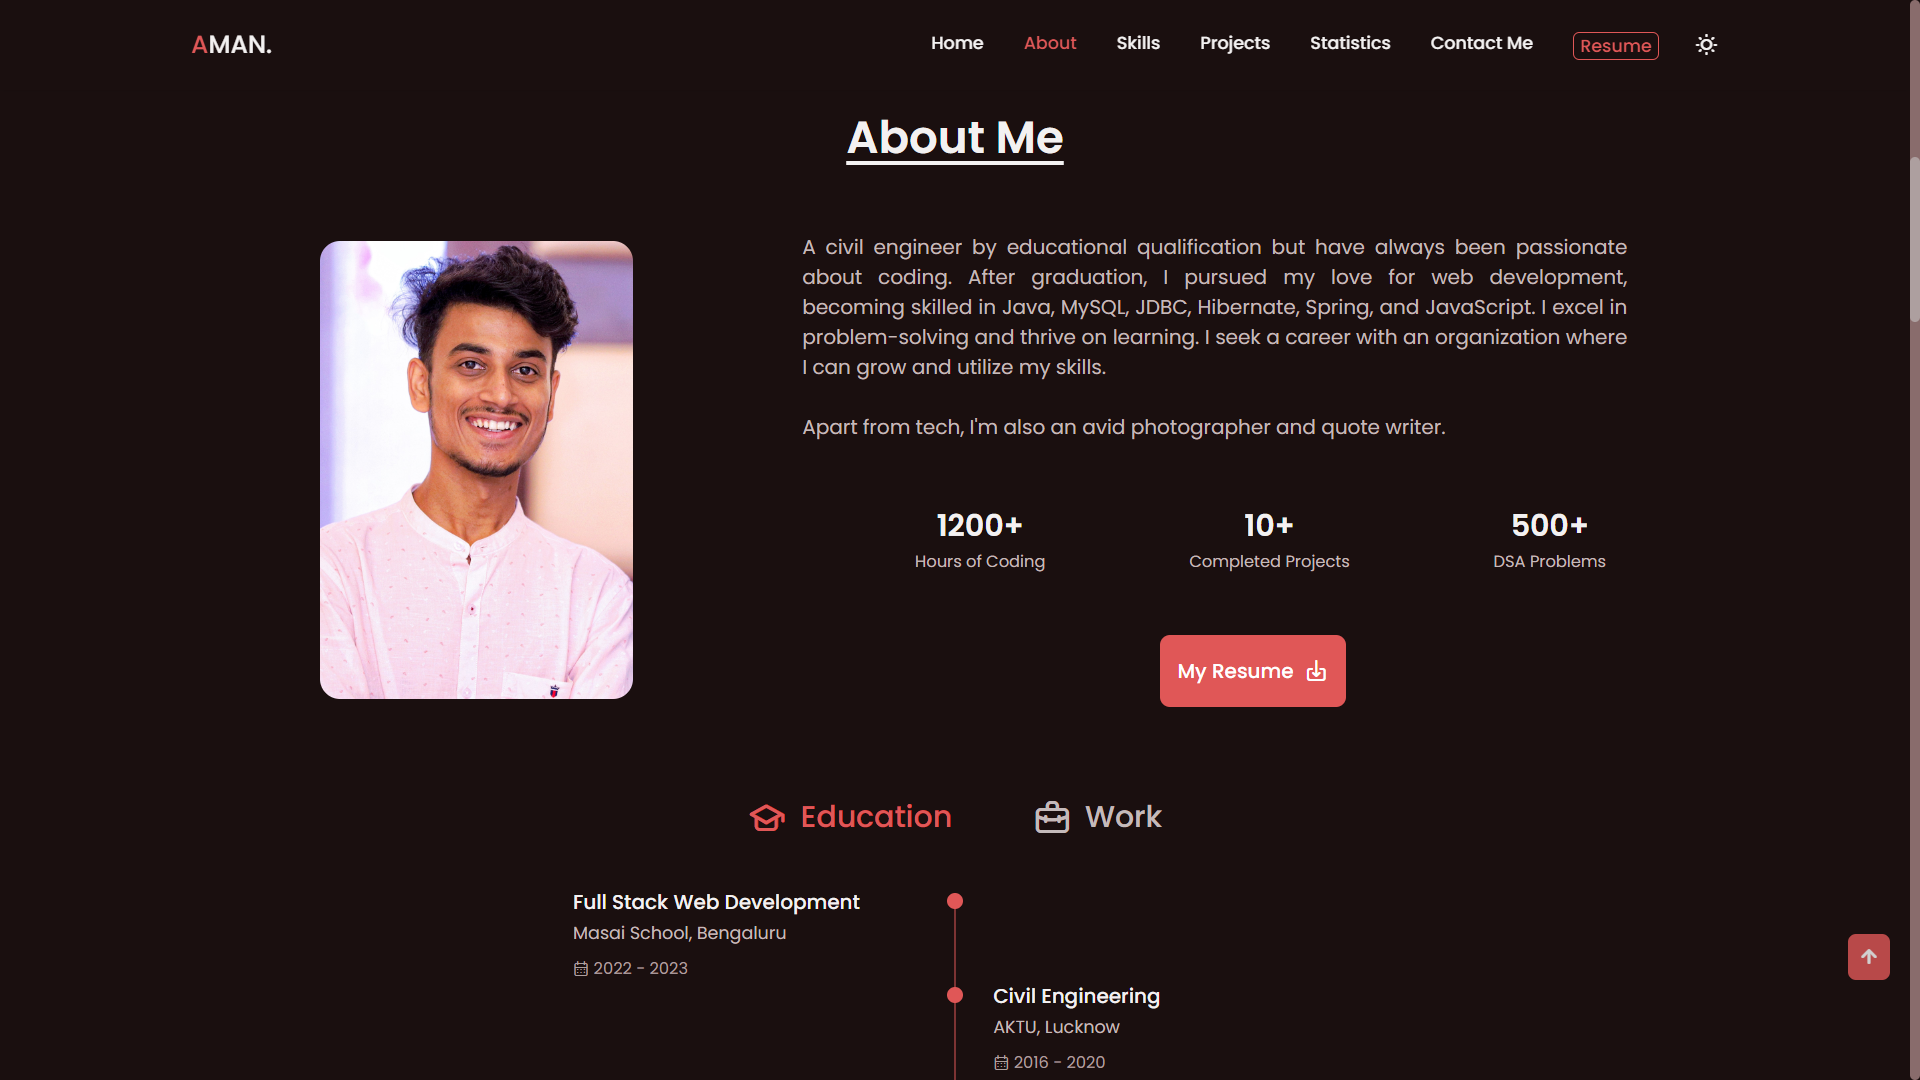
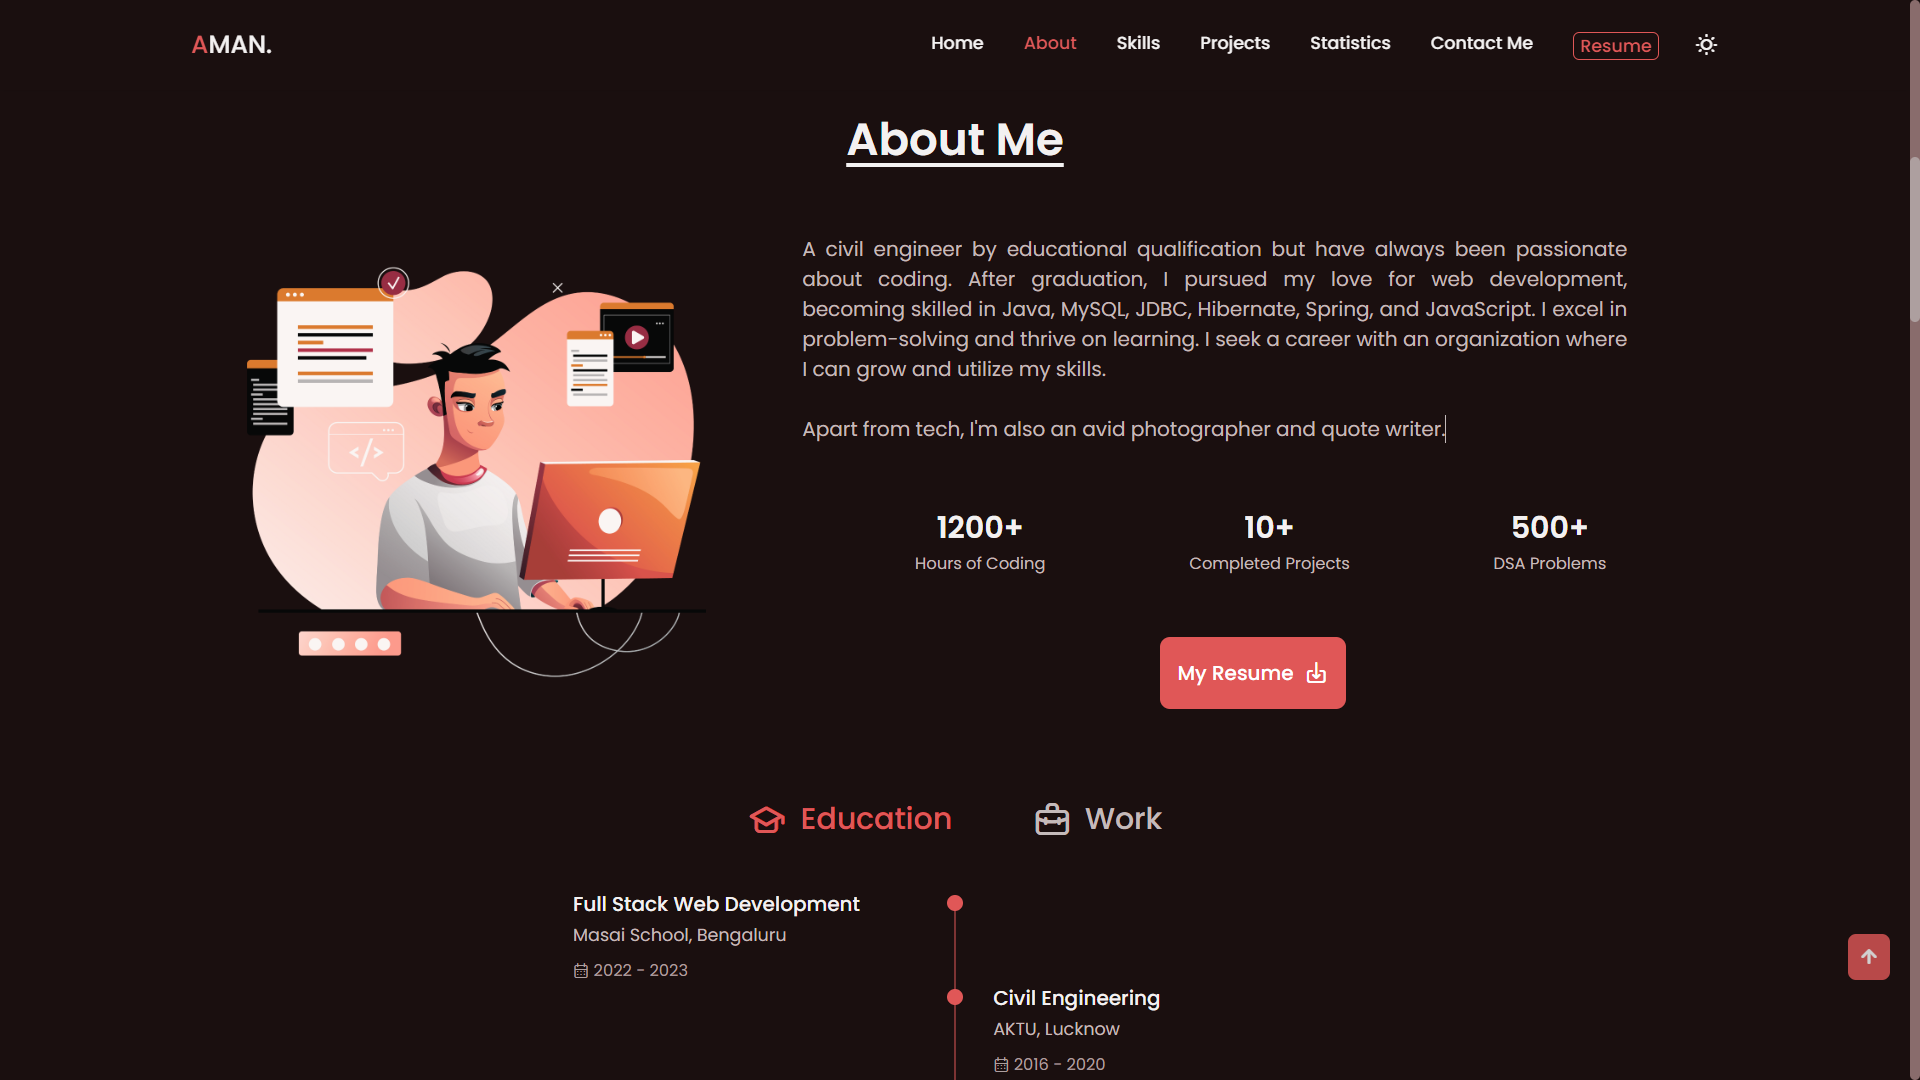
images changed

diff --git a/index.html b/index.html
@@ -147,12 +147,12 @@
         <hr class="hr_break_line">
 
 
-        <!-- ========== About - Introduction ========== -->
+        <!-- ========== About ========== -->
         <section class="about section" id="about">
             <h2 class="section_title">About Me</h2>
 
             <div class="about_container container grid">
-                <img src="/images/profile-full.jpg" alt="" class="about_img home-img">
+                <img src="/images/2.png" alt="" class="about_img home-img">
                 <div class="about_data">
                     <p class="about_description" id="user-detail-intro">A civil engineer by educational qualification
                         but have always been passionate about coding. After graduation, I pursued my love for web
@@ -654,13 +654,13 @@
             <span class="section_subtitle">My Github Statistics</span>
             <div class="statistics_container container grid">
                 <img id="github-stats-card"
-                    src="https://github-readme-stats.vercel.app/api?username=AmanChaudhary214&theme=city_light&hide_border=false&include_all_commits=true&count_private=true"
+                    src="https://github-readme-stats.vercel.app/api?username=AmanChaudhary214&theme=city_light&hide_border=true&include_all_commits=true&count_private=true"
                     alt="github-stats-card">
                 <img id="github-top-langs"
-                    src="https://github-readme-stats.vercel.app/api/top-langs/?username=AmanChaudhary214&langs_count=4&theme=city_light&hide_border=false&include_all_commits=true&count_private=true&layout=compact"
+                    src="https://github-readme-stats.vercel.app/api/top-langs/?username=AmanChaudhary214&langs_count=4&theme=city_light&hide_border=true&include_all_commits=true&count_private=true&layout=compact"
                     alt="github-top-langs">
                 <img id="github-streak-stats"
-                    src="https://github-readme-streak-stats.herokuapp.com/?user=AmanChaudhary214&ring=5094f0&currStreakLabel=5094f0&fire=5094f0&theme=city_light&hide_border=false"
+                    src="https://github-readme-streak-stats.herokuapp.com/?user=AmanChaudhary214&ring=5094f0&currStreakLabel=5094f0&fire=5094f0&theme=city_light&hide_border=true"
                     alt="github-streak-stats">
             </div>
             <span class="section_subtitle">Github Calendar</span>
@@ -720,8 +720,7 @@
                         </div>
                     </div>
                 </div>
-                <form action="https://formsubmit.co/aman.chaudhary214@gmail.com" method="POST"
-                    class="contact_form grid">
+                <form action="https://formspree.io/f/mwkjzwvn" method="POST" class="contact_form grid">
                     <div class="contact_inputs grid">
                         <div class="contact_content">
                             <label for="" class="contact_label">Name</label>
@@ -741,8 +740,7 @@
                         <textarea name="" id="" cols="0" rows="7" class="contact_input"></textarea>
                     </div>
                     <div>
-                        <a href="#" class="button button-flex">
-                            Send Message
+                        <a href="#" class="button button-flex">Send Message
                             <i class="uil uil-message button_icon"></i>
                         </a>
                     </div>
@@ -758,26 +756,32 @@
     <!-- ========== FOOTER ========== -->
     <footer class="footer">
         <div class="footer_bg">
-            <div class="footer_container container grid">
-                <div>
-                    <h1 class="footer_title">Aman Chaudhary</h1>
-                    <span class="footer_subtitle">Java Backend Developer</span>
+            <img src="/images/3.png" alt="">
+            <div>
+                <div class="footer_container container grid">
+                    <div>
+                        <h1 class="footer_title">Aman Chaudhary</h1>
+                        <span class="footer_subtitle">Java Backend Developer</span>
+                    </div>
+                    <div class="footer_socials">
+                        <a href="https://github.com/AmanChaudhary214" target="_blank" class="footer_social">
+                            <i class="uil uil-github-alt"></i>
+                        </a>
+                        <a href="https://www.linkedin.com/in/amanchaudhary214/" target="_blank" class="footer_social">
+                            <i class="uil uil-linkedin-alt"></i>
+                        </a>
+                        <a href="https://twitter.com/theaman214" target="_blank" class="footer_social">
+                            <i class="uil uil-twitter-alt"></i>
+                        </a>
+                    </div>
                 </div>
-                <div class="footer_socials">
-                    <a href="https://github.com/AmanChaudhary214" target="_blank" class="footer_social">
-                        <i class="uil uil-github-alt"></i>
-                    </a>
-                    <a href="https://www.instagram.com/tilted_._tripod/" target="_blank" class="footer_social">
-                        <i class="uil uil-instagram"></i>
-                    </a>
-                    <a href="https://twitter.com/theaman214" target="_blank" class="footer_social">
-                        <i class="uil uil-twitter-alt"></i>
-                    </a>
+                <div>
+                    <p class="footer_copy">Made with ❤ by &#169; Aman Chaudhary</p>
+                    <p class="footer_copy">Inspired by <a
+                            href="https://github.com/bedimcode/responsive-portfolio-website-Alexa"
+                            target="_blank">@Bedimcode</a> | All rights reserved | 2023</p>
                 </div>
             </div>
-            <p class="footer_copy">Made with ❤ by &#169; Aman Chaudhary</p>
-            <p class="footer_copy">Inspired by <a href="https://github.com/bedimcode/responsive-portfolio-website-Alexa"
-                    target="_blank">@ Bedimcode</a> | All rights reserved | 2023</p>
         </div>
     </footer>
 

diff --git a/css/style.css b/css/style.css
@@ -467,7 +467,7 @@ img {
 
 /* ====== ABOUT ====== */
 .about_img {
-    width: 200px;
+    width: 300px;
     border-radius: 1rem;
     justify-content: center;
     margin: auto;
@@ -585,7 +585,7 @@ img {
 
 .qualification_active[data-content] {
     display: block;
-    
+
 }
 
 .qualification_button.qualification_active {
@@ -848,7 +848,7 @@ img {
 }
 
 .statistics_container img:hover {
-    transform: scale(1.075);
+    transform: scale(1.05);
     cursor: pointer;
 }
 
@@ -917,7 +917,17 @@ img {
 
 .footer_bg {
     background-color: var(--first-color-second);
-    padding: 2rem 0 3rem;
+    padding: 2rem 0 2rem;
+}
+
+.footer_bg>div {
+    display: flex;
+    flex-direction: column;
+    justify-content: center;
+}
+
+.footer_bg img {
+    height: 300px;
 }
 
 .footer_title,
@@ -949,7 +959,7 @@ img {
     font-size: var(--smaller-font-size);
     text-align: center;
     color: #fff;
-    margin-top: var(--mb-3);
+    margin-top: var(--mb-2);
 }
 
 .footer_copy a {
@@ -1077,6 +1087,15 @@ img {
     .skills_container {
         gap: 2rem;
     }
+
+    .footer_bg {
+        display: flex;
+        justify-content: space-evenly;
+    }
+
+    .footer_bg>div {
+        flex-basis: 40%;
+    }
 }
 
 @media screen and (min-width: 767px) {
@@ -1174,12 +1193,12 @@ img {
     }
 
     .about_img {
-        width: 250px;
+        width: 300px;
     }
 
     .about_description {
         text-align: initial;
-        width: 350px;
+        width: 450px;
     }
 
     .qualification_tabs {
@@ -1250,7 +1269,7 @@ img {
     }
 
     .about_img {
-        flex-basis: 20%;
+        flex-basis: 30%;
     }
 
     .about_data {
